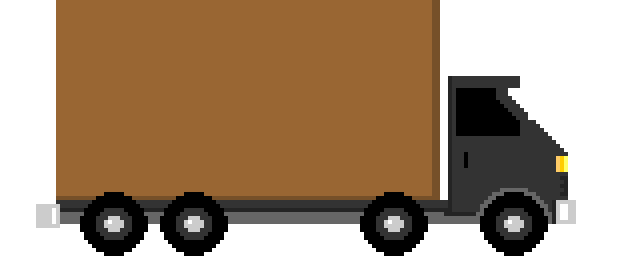
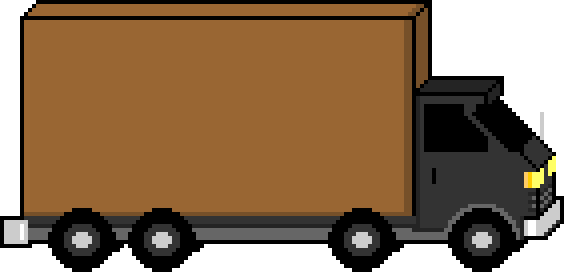
Add city and new truck

diff --git a/public/static/css/main.css b/public/static/css/main.css
@@ -89,7 +89,7 @@ section.explanation .graphic img{
   width: 300px;
 }
 
-section.videos:before{
+section.sidewalk:before{
   background-image: url('/static/images/sidewalk.png');
 }
 
@@ -108,14 +108,14 @@ section.videos:after{
   box-sizing: border-box;
   -moz-box-sizing: border-box;
   padding: 15px 220px 55px 70px;
-  width: 640px;
-  height: 256px;
+  width: 564px;
+  height: 272px;
   color: #000;
   position: absolute;
-  bottom: 99px;
+  bottom: 40px;
   background: transparent url('/static/images/truck1.png') bottom left no-repeat;
   text-align: center;
-  z-index: 9;
+  z-index: 13;
 }
 
 header .team{
@@ -123,6 +123,84 @@ header .team{
   bottom: 83px;
   left: 30%;
   z-index: 13;
+}
+
+.features{
+  min-width: 2000px;
+}
+
+.feature{
+  position: absolute;
+  bottom: 95px;
+  box-sizing: border-box;
+  -moz-box-sizing: border-box;
+}
+
+.feature h3{
+  position: absolute;
+  font-size: 24px;
+  color: #aa0200;
+  text-shadow: 2px 2px 0 #dd9493;
+}
+
+.feature p{
+  position: absolute;
+  line-height: 1.4;
+  font-size: 17px;
+}
+
+.feature:first-child{
+  width: 528px;
+  height: 400px;
+  background: transparent url('/static/images/building_1.png') bottom left no-repeat;
+}
+
+.feature:first-child h3{
+  bottom: 263px;
+  left: 120px;
+}
+
+.feature:first-child p{
+  top: 230px;
+  left: 218px;
+  width: 186px;
+}
+
+.feature:last-child{
+  left: 967px;
+  width: 528px;
+  height: 456px;
+  background: transparent url('/static/images/building_2.png') bottom left no-repeat;
+}
+
+.feature:last-child h3{
+  top: 30px;
+  left: 162px;
+}
+
+.feature:last-child p{
+  top: 154px;
+  left: 73px;
+  width: 328px;
+}
+
+
+.feature:nth-child(2){
+  left: 417px;
+  width: 580px;
+  height: 704px;
+  background: transparent url('/static/images/building3_hifi.png') bottom left no-repeat;
+}
+
+.feature:nth-child(2) h3{
+  bottom: 260px;
+  left: 162px;
+}
+
+.feature:nth-child(2) p{
+  bottom: 200px;
+  left: 130px;
+  width: 358px;
 }
 
 .cloud{

diff --git a/public/index.html b/public/index.html
@@ -81,10 +81,27 @@
           </div>
         </section>
 
-        <section class="videos">
+        <section class="videos sidewalk">
           <div class="video">
             <h3>An Overview</h3>
             <iframe src="http://www.youtube.com/embed/NGqAh-_saZc" frameborder="0" allowfullscreen></iframe>
+          </div>
+        </section>
+
+        <section class="features sidewalk">
+          <div class="feature">
+            <h3>Fewer Controllers</h3>
+            <p>Play your NES, SNES, Sega Genesis &amp; more with 1 set of controllers.</p>
+          </div>
+
+          <div class="feature">
+            <h3>Modern controllers</h3>
+            <p>Is your N64 joystick still usable? Yeah, me neither.</p>
+          </div>
+
+          <div class="feature">
+            <h3>No more wires</h3>
+            <p>Quit wrapping and untangling wires on all of your old controllers.</p>
           </div>
         </section>
       </div>
